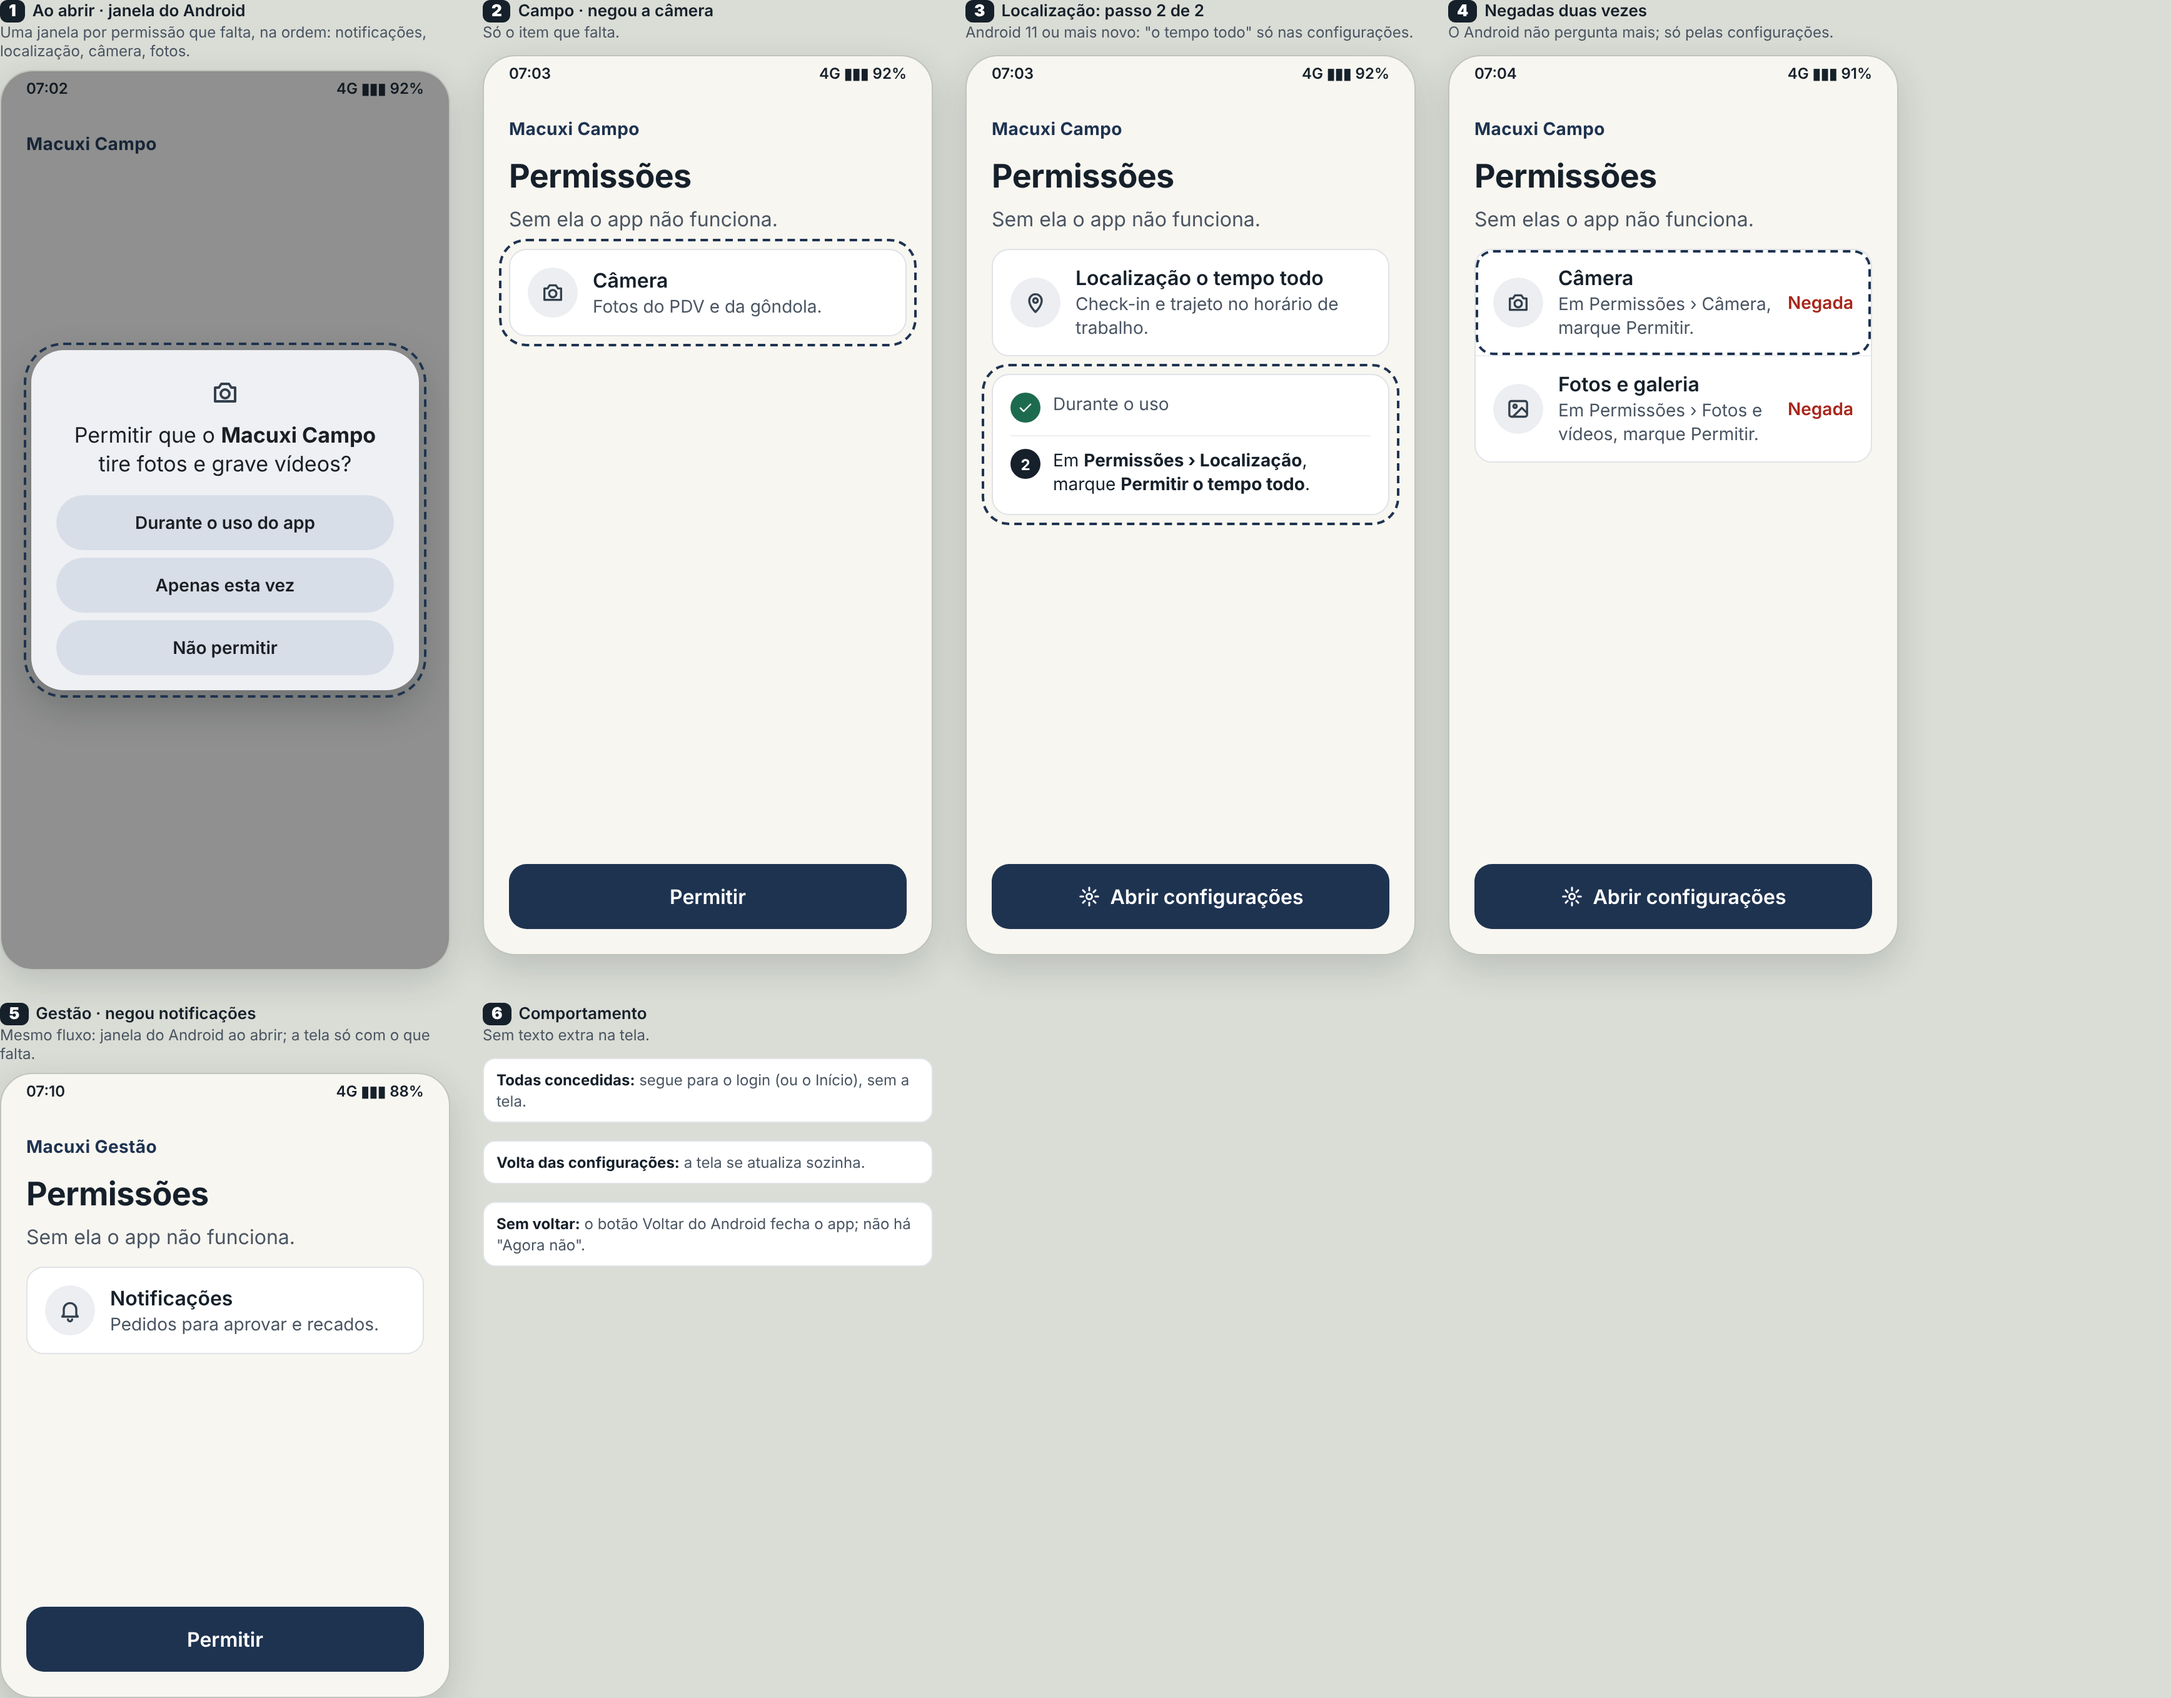
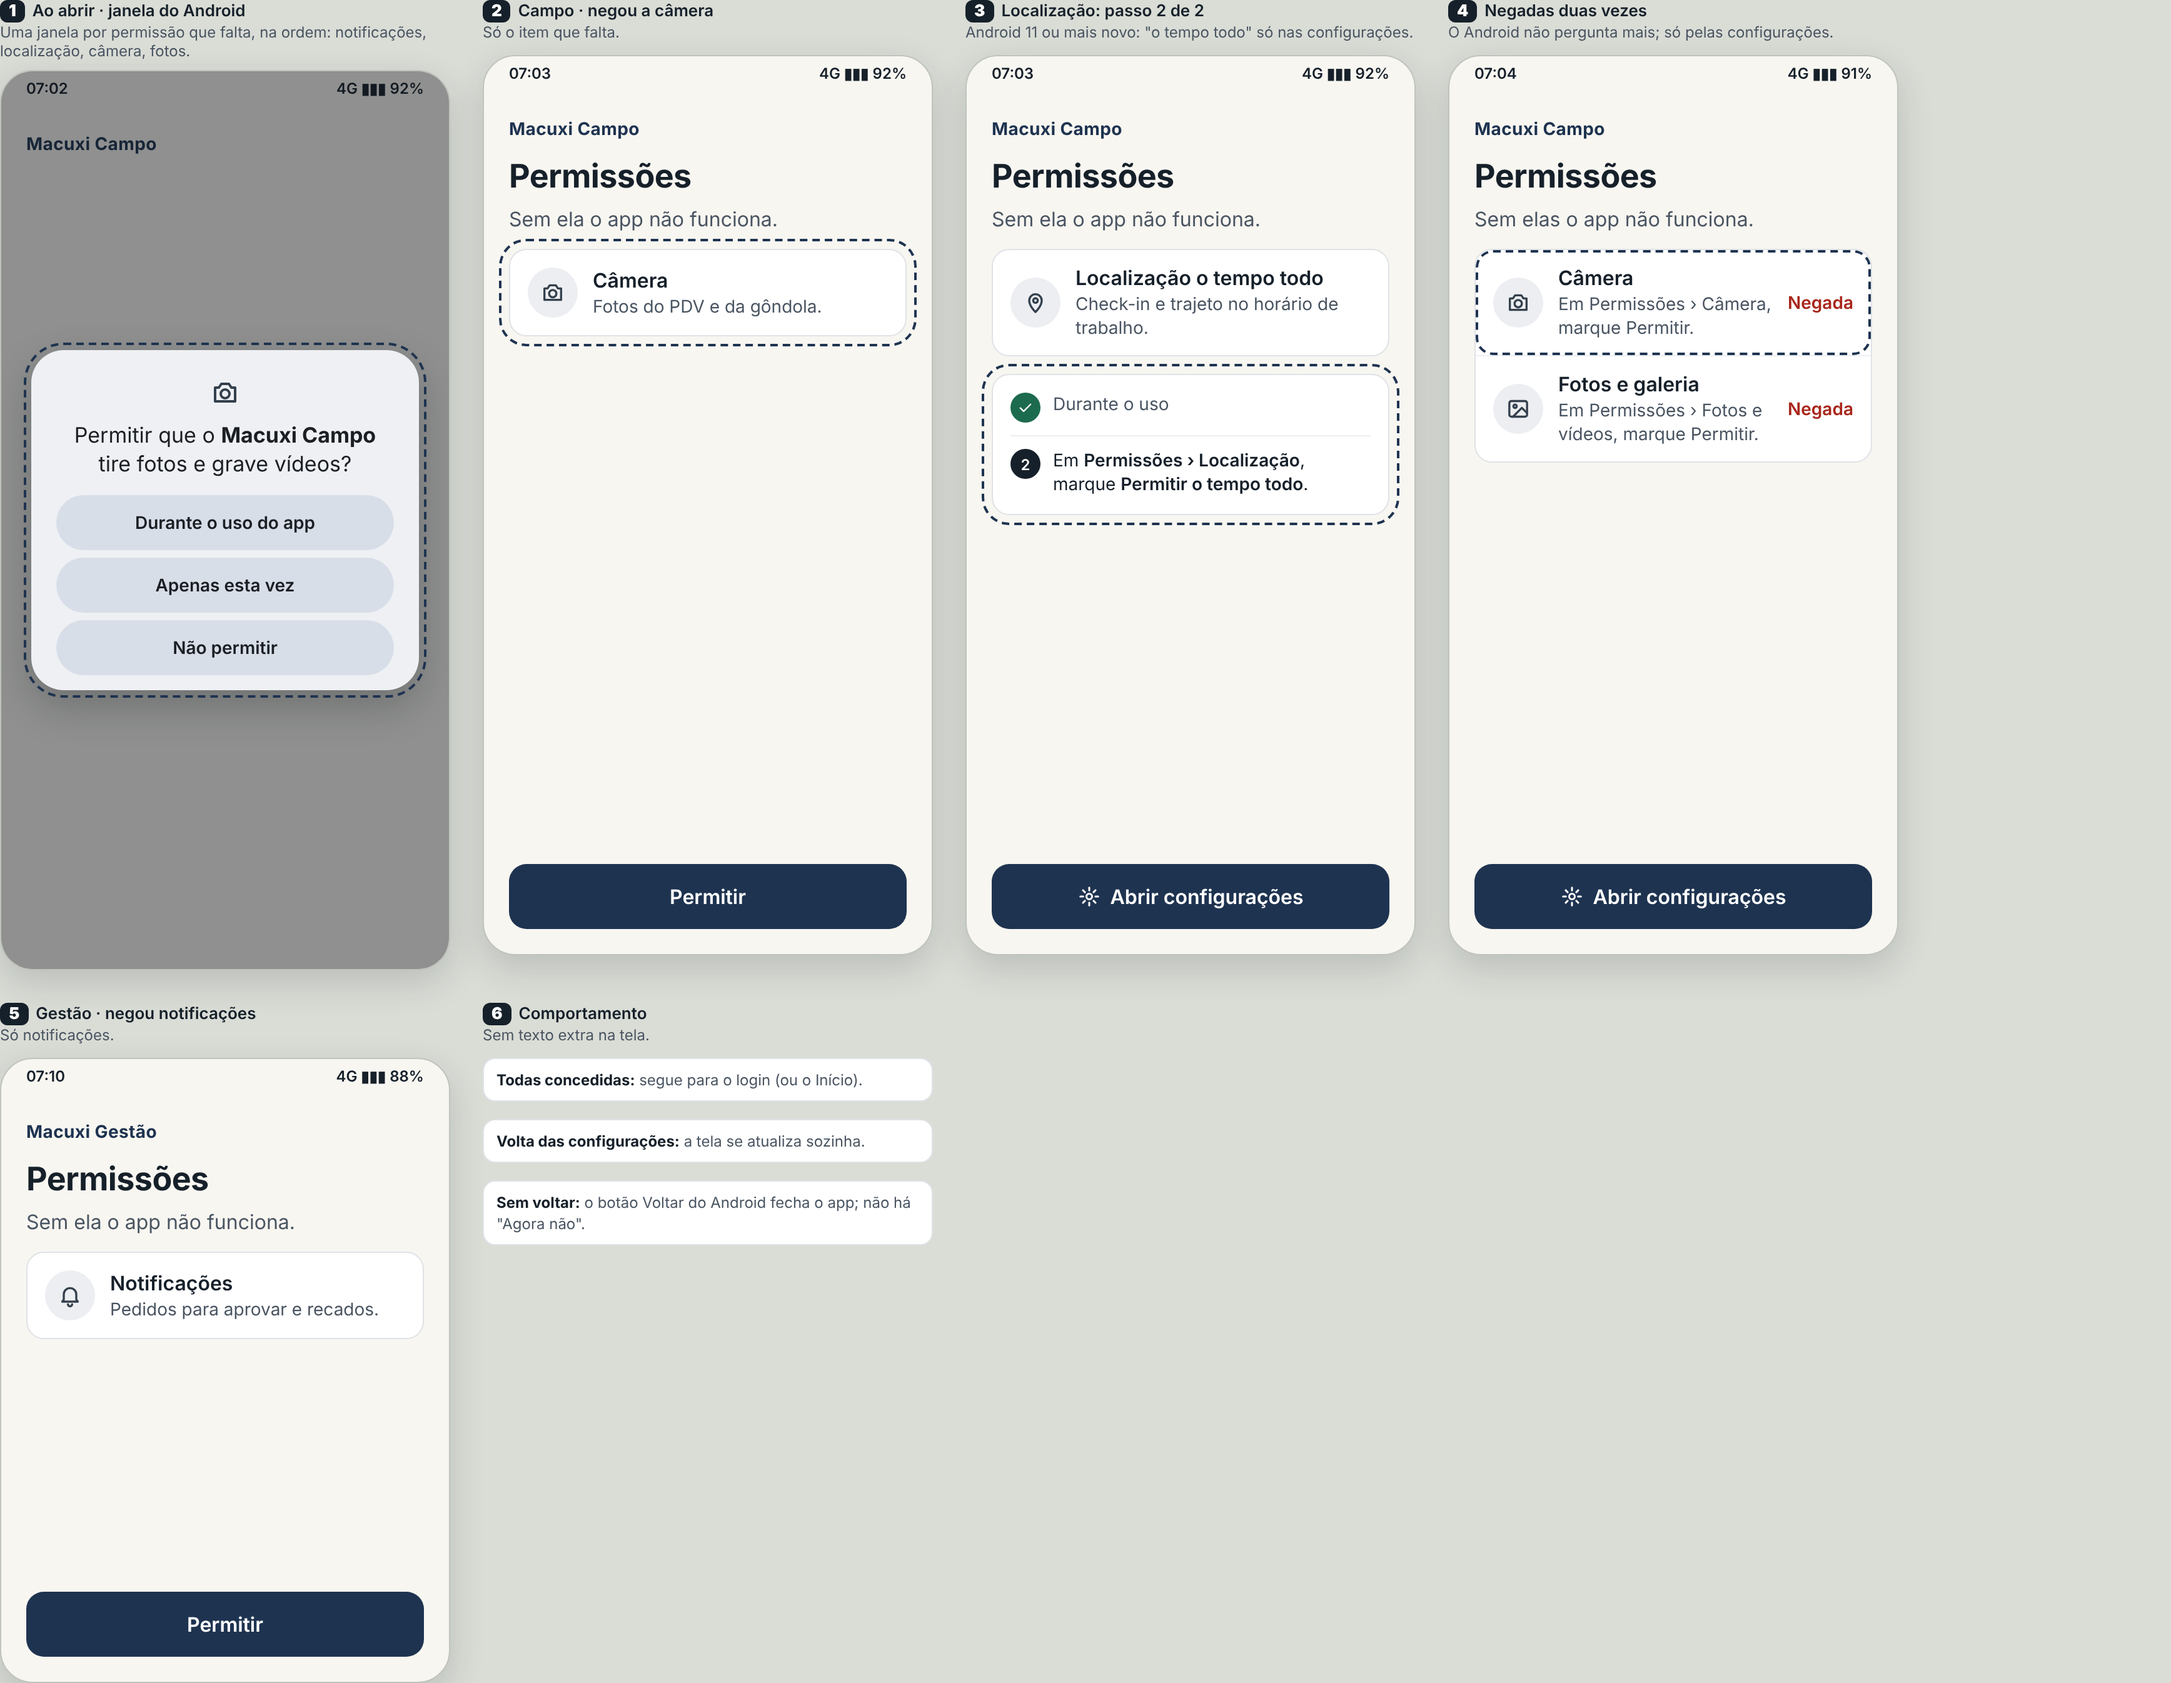
docs(design): permissões v1.0.17 — achados do corretor e da marca (MC-0161)
- permissoes-e-fotos-pdv.md: tira "A tela não aparece." e o "Sem link na tela"; fica só o Voltar do Android.
- T-0145-permissoes.html: nota "Todas concedidas" sem "sem a tela"; legenda do quadro 5 "Só notificações.";
  .passos .nm e .passos .ps b em 600 (700 só em título).
- PNG da prancha gerado de novo.

Agente: designer-ux
Claude-Session: https://claude.ai/code/session_0157qAhkUKiKfNHiad58rxiJ

diff --git a/docs/design/telas/T-0145-permissoes.html b/docs/design/telas/T-0145-permissoes.html
@@ -22,7 +22,8 @@
   .passos { background: var(--surface); border: 1px solid var(--line); border-radius: 14px; padding: 4px 14px; }
   .passos .ps { display: flex; gap: 10px; align-items: flex-start; padding: 10px 0; font-size: 14px; line-height: 19px; }
   .passos .ps + .ps { border-top: 1px solid var(--lineSoft); }
-  .passos .nm { width: 24px; height: 24px; border-radius: 12px; background: var(--ink); color: #fff; font-size: 12px; font-weight: 700; display: flex; align-items: center; justify-content: center; flex: none; }
+  .passos .nm { width: 24px; height: 24px; border-radius: 12px; background: var(--ink); color: #fff; font-size: 12px; font-weight: 600; display: flex; align-items: center; justify-content: center; flex: none; }
+  .passos .ps b { font-weight: 600; }
   .passos .nm.ok { background: var(--success); }
   .passos .feito { color: var(--ink2); }
   .rodape-perm { flex: none; padding: 12px 20px 20px; display: flex; flex-direction: column; gap: 4px; }
@@ -121,7 +122,7 @@
 
   <!-- 5 · Gestão -->
   <div class="tela">
-    <div class="legenda"><b>5</b>Gestão · negou notificações<span>Mesmo fluxo: janela do Android ao abrir; a tela só com o que falta.</span></div>
+    <div class="legenda"><b>5</b>Gestão · negou notificações<span>Só notificações.</span></div>
     <div class="phone perm" style="height:500px">
       <div class="status"><span>07:10</span><span>4G ▮▮▮ 88%</span></div>
       <div class="conteudo" style="padding:6px 20px 0;gap:14px">
@@ -141,7 +142,7 @@
   <div class="tela">
     <div class="legenda"><b>6</b>Comportamento<span>Sem texto extra na tela.</span></div>
     <div class="estados">
-      <div class="nota-prancha"><b>Todas concedidas:</b> segue para o login (ou o Início), sem a tela.</div>
+      <div class="nota-prancha"><b>Todas concedidas:</b> segue para o login (ou o Início).</div>
       <div class="nota-prancha"><b>Volta das configurações:</b> a tela se atualiza sozinha.</div>
       <div class="nota-prancha"><b>Sem voltar:</b> o botão Voltar do Android fecha o app; não há "Agora não".</div>
     </div>

diff --git a/docs/design/permissoes-e-fotos-pdv.md b/docs/design/permissoes-e-fotos-pdv.md
@@ -15,7 +15,7 @@
 - Localização: primeiro a janela "Durante o uso"; concedida, o app pede "o tempo todo" (Android 11+: o sistema abre a página
   de localização do app, onde se marca **Permitir o tempo todo**).
 - Permissão que o Android não pergunta mais (2 recusas) não abre janela: vai direto para a tela.
-- Todas concedidas: o app segue (login, ou o Início se já entrou). A tela não aparece.
+- Todas concedidas: o app segue (login, ou o Início se já entrou).
 
 ### 1.2 Tela "Permissões": só se faltar alguma
 - Fundo `ground`, sem barra de abas. Marca 14/700 `accentInk` ("Macuxi Campo" / "Macuxi Gestão"), título **"Permissões"**
@@ -36,7 +36,7 @@
   "2 · Em **Permissões › Localização**, marque **Permitir o tempo todo**."
 - **Negada**: o motivo da linha vira a ação: "Em Permissões › Câmera, marque Permitir."
 - Concedida, a linha sai da lista; lista vazia, o app segue sozinho. Volta das configurações: a tela se atualiza.
-- Sem link na tela (saiu "Como usamos a localização"). Voltar do Android fecha o app; não há "Agora não".
+- Voltar do Android fecha o app; não há "Agora não".
 
 ## 2. Fotos do PDV na ficha do cliente
 - Linha de ações: **Ligar · WhatsApp · Mapa · Foto do PDV** (4 botões iguais de 64 dp, ícone 20 + rótulo 12/600; TalkBack
